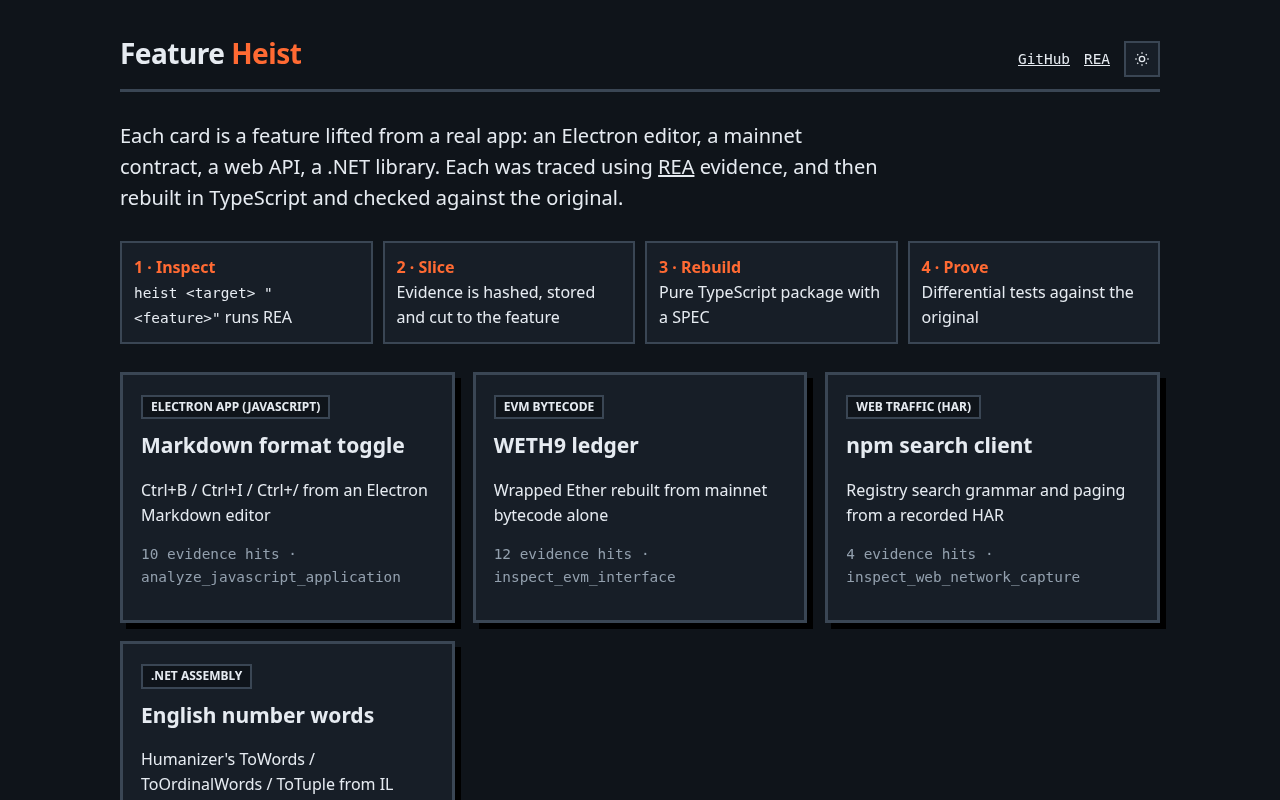
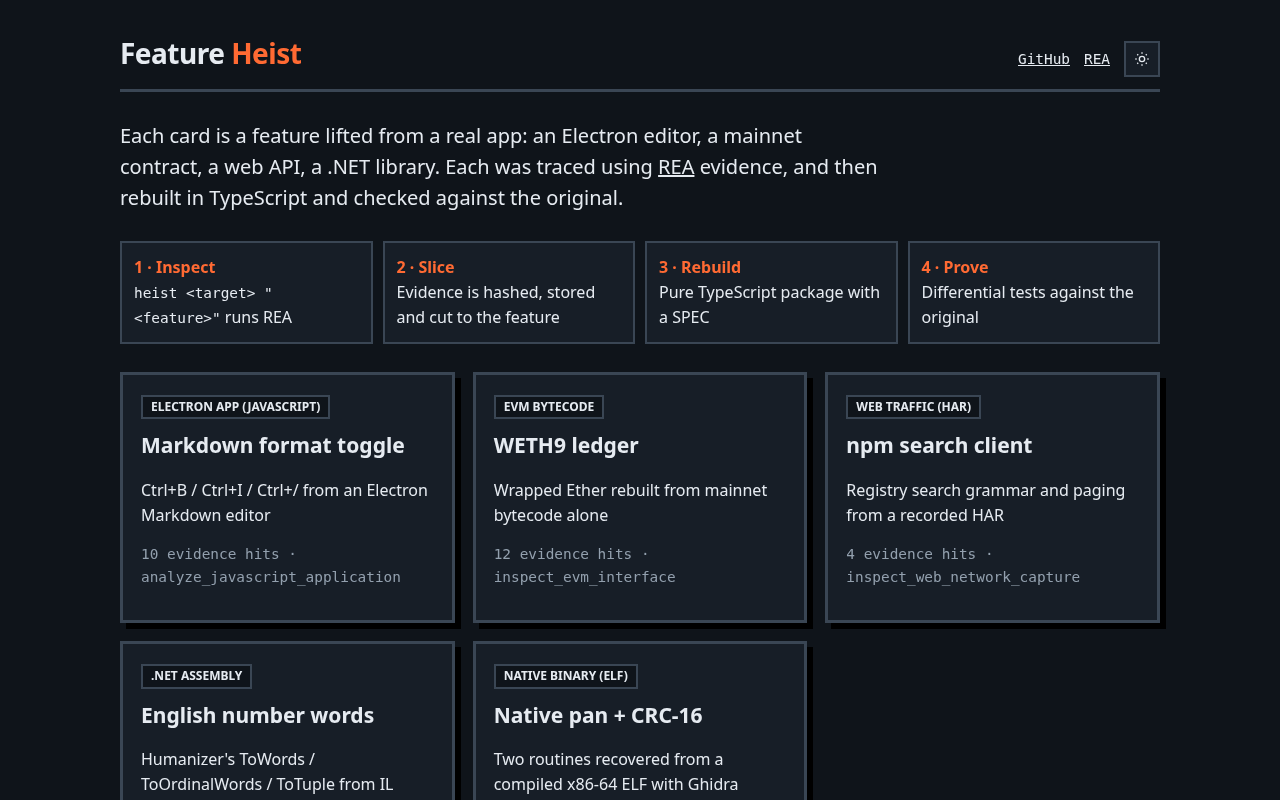
docs: add native Ghidra screenshot and refresh the gallery capture

Changed region(s): [[0.375, 0.7812, 0.625, 0.9062], [0.375, 0.9375, 0.5938, 1.0], [0.625, 0.8125, 0.6562, 1.0]]

diff --git a/README.md b/README.md
@@ -35,6 +35,8 @@ Feature Heist turns [REA (Reverse Engineer Anything)](https://github.com/morluto
 | ![Gallery of rebuilt features](docs/screenshots/01-gallery.png) | ![Markdown toggle rebuild running in the browser](docs/screenshots/02-markdown-toggle.png) |
 | **WETH9 demo and provenance** | **Number words, light theme** |
 | ![WETH9 ledger demo with REA provenance](docs/screenshots/03-weth9-provenance.png) | ![English number words demo in light theme](docs/screenshots/04-number-words-light.png) |
+| **Native ELF via Ghidra** | |
+| ![Native pan and CRC-16 rebuilt from Ghidra pseudocode](docs/screenshots/05-native-ghidra.png) | |
 
 Every rebuild also has an `evidence.test.ts`. It loads the stored REA record, verifies its SHA-256, and checks that the vendored fixture is the *same bytes* REA analysed.
 
